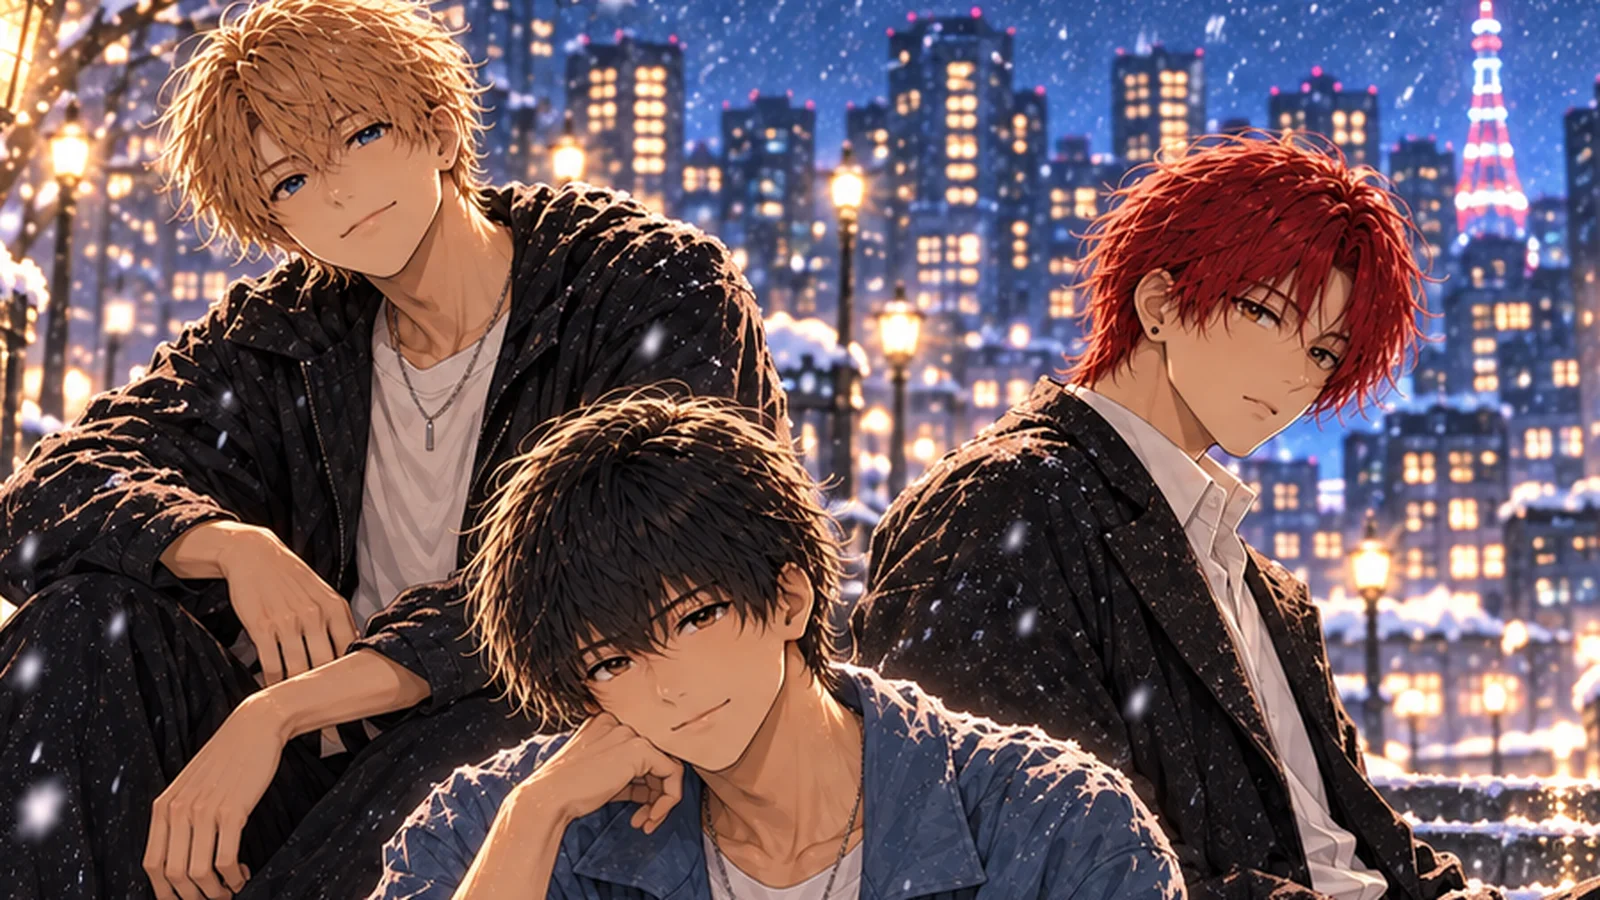
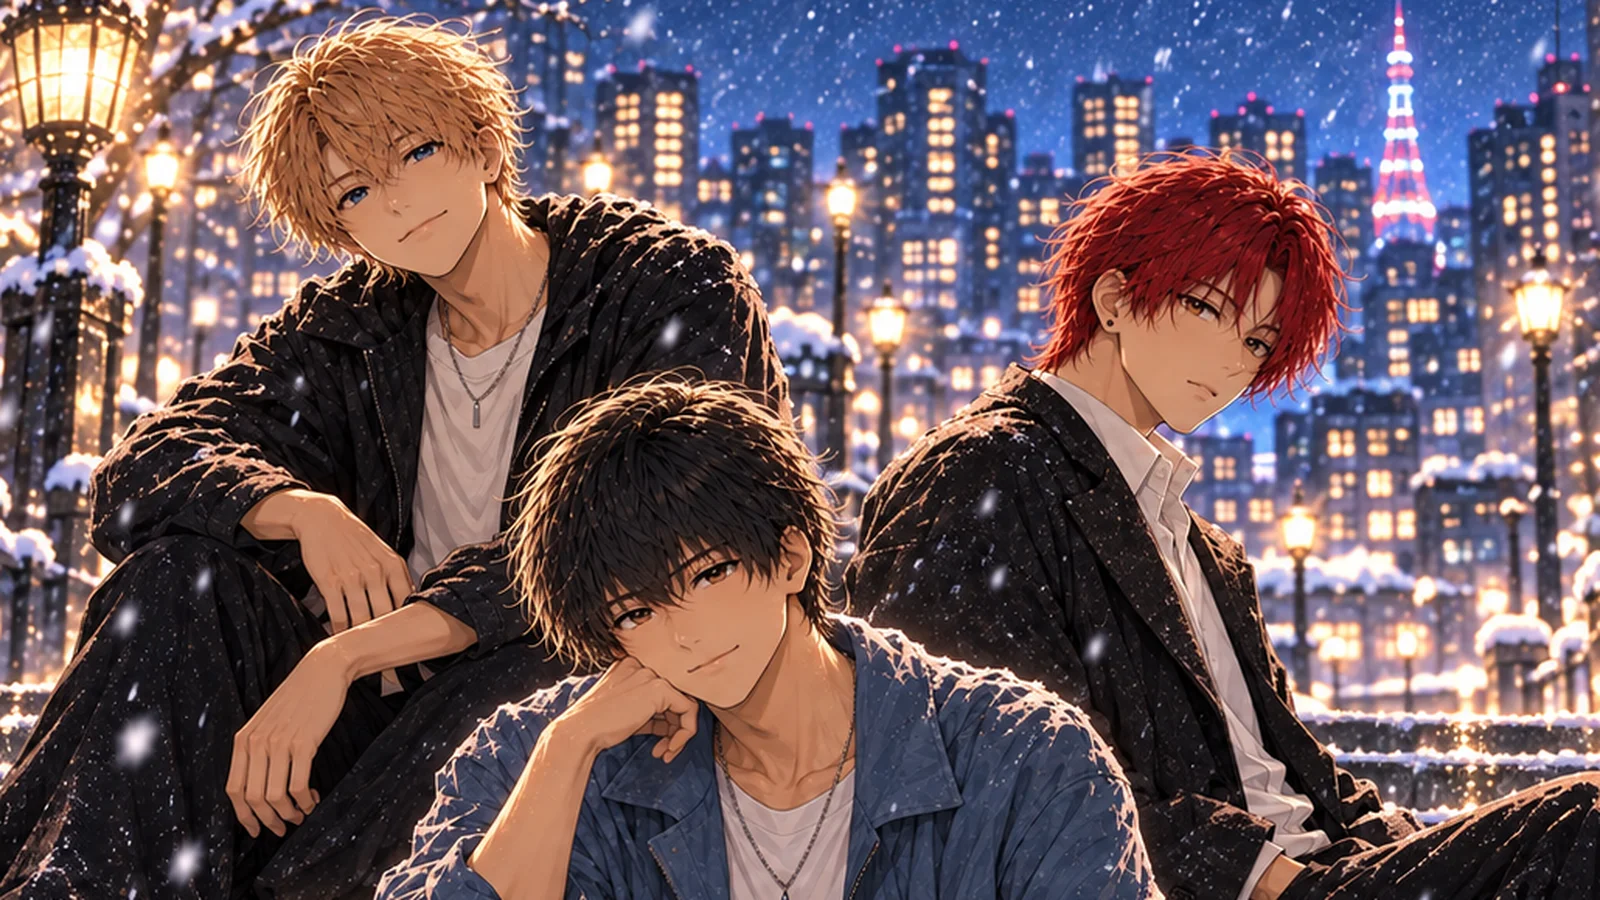
Snow flakes カードの画像を少し引きに調整
Claude-Session: https://claude.ai/code/session_01FdSiFjHcZ8mCQ1VVEhWYsP

diff --git a/site/site-data.js b/site/site-data.js
@@ -36,7 +36,7 @@
     { id: 'snowflakes', status: 'public', featured: true, order: 1,
       title: 'Snow flakes', kana: 'スノーフレークス', kind: '連載小説・シリーズ', page: 'stories/snowflakes/',
       lead: '約束なんてしていない。それでも、三人の音は続いていく。',   // 2026-10-28 ユーザー指定の紹介文の冒頭（2026-10-29「高校時代に始まったバンド…」は一覧から外す指示）（全文は stories/snowflakes/ の冒頭）
-      image: 'img/works/snowflakes_card.webp', heroImage: 'img/works/snowflakes.webp', imageSpec: '1600×900（16:9）',   // 2026-11-01 代表作品などのカードは顔をさらにアップにした snowflakes_card.webp（900×506 を切り抜き）、Snow flakes 物語トップの大きな画像は heroImage（c759232a の全体を切り抜かずに縮小）。2026-11-01 ユーザー指定のイラスト（雪の階段に座る三人・元画像 ⑥画像データ/c759232a-….png。同日 7db91bf1-….png から差し替え。顔が見えるよう 1152×648（左262・上12）を切り抜いて拡大）に差し替え。2026-10-28 ユーザー指定のイラストに差し替え（元画像は制作用の保管場所。対応は引き継ぎ資料）。旧：仮の Kindle 1巻表紙 snowflakes_ad.webp（ファイルは残している）
+      image: 'img/works/snowflakes_card.webp', heroImage: 'img/works/snowflakes.webp', imageSpec: '1600×900（16:9）',   // 2026-11-01 代表作品などのカードは顔をさらにアップにした snowflakes_card.webp（1030×579 を左330・上38から切り抜き。最初の 900×506 から少し引いた）、Snow flakes 物語トップの大きな画像は heroImage（c759232a の全体を切り抜かずに縮小）。2026-11-01 ユーザー指定のイラスト（雪の階段に座る三人・元画像 ⑥画像データ/c759232a-….png。同日 7db91bf1-….png から差し替え。顔が見えるよう 1152×648（左262・上12）を切り抜いて拡大）に差し替え。2026-10-28 ユーザー指定のイラストに差し替え（元画像は制作用の保管場所。対応は引き継ぎ資料）。旧：仮の Kindle 1巻表紙 snowflakes_ad.webp（ファイルは残している）
       serials: [{ label: '小説家になろう', url: NAROU + 'n9009lo/', ncode: 'n9009lo', note: '毎日21時更新' }],
       artists: ['snowflakes'] },
     { id: 'kamisama', status: 'public', featured: true, order: 2,
